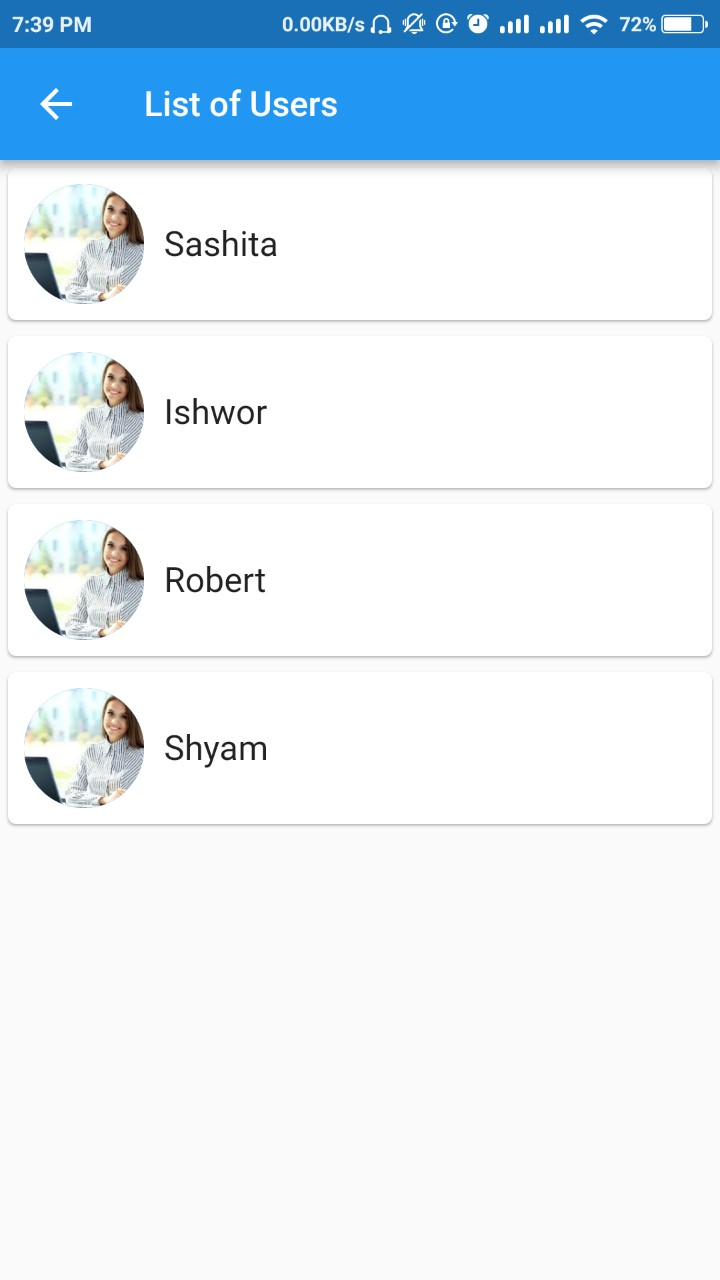
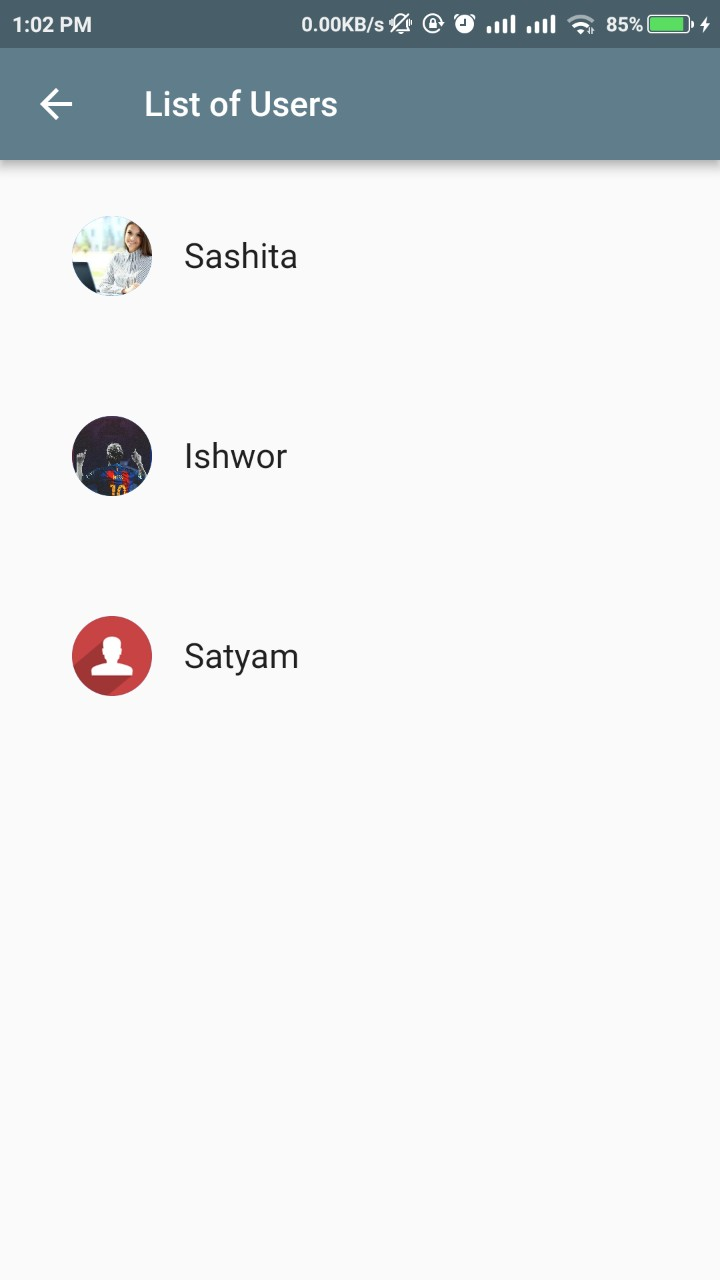
updated

Changed region(s): [[0.0, 0.0, 1.0, 0.6562], [0.2444, 0.5, 0.4278, 0.5312], [0.2444, 0.1875, 0.4278, 0.2188]]

diff --git a/lib/List.dart b/lib/List.dart
@@ -1,49 +1,68 @@
 import 'package:flutter/material.dart';
 
-class ListPage extends StatefulWidget{
-  @override
-  State<ListPage> createState() {
-    return new ListState();
-  }
-}
-
-class ListState extends State<ListPage>{
-  List<String> Names = [
-    'Sashita','Ishwor','Robert','Shyam',
-  ];
+class ListPage extends StatelessWidget {
   @override
   Widget build(BuildContext context) {
-    return new Scaffold(
+    return Scaffold(
       appBar: AppBar(
-        title: new Text("List of Users "),
+        title: Text("List of Users"),
+         backgroundColor:(Colors.blueGrey),
       ),
-      body: new Container(
-        child: new ListView.builder(
-          
-            itemBuilder: (_,int index)=>EachList(this.Names[index]),
-            itemCount: this.Names.length,
-        ),
-      ),
-    );
-  }
-}
-class EachList extends StatelessWidget{
-  final String name;
-  EachList(this.name);
-  @override
-  Widget build(BuildContext context) {
-    return new Card(
-      child: new Container(
-        padding: EdgeInsets.all(8.0),
-        child: new Row(
-          children: <Widget>[
-            new CircleAvatar(backgroundImage:AssetImage("assets/avatar.png"),radius:30,),
-            new Padding(padding: EdgeInsets.only(right: 10.0)),
-            new Text(name,style: TextStyle(fontSize: 20.0),)
-          ],
-        ),
-      ),
-    );
-  }
+      body: Container(
 
+          child: _list1(context),
+
+        // child: ListView.builder(
+        //   itemBuilder: (_,int index)=>Eachlist(),
+        //   itemCount: 5,
+        // ),
+        
+
+      )
+    );
+  }
 }
+// class Eachlist extends StatelessWidget {
+//   @override
+//   Widget build(BuildContext context) {
+//     return Card(
+//       child: Container(
+//         padding: EdgeInsets.all(10),
+//         child: Row(
+//           children: <Widget>[
+//             CircleAvatar( backgroundImage: AssetImage("assets/ishwor.jpg"),radius: ,),
+//             Padding(padding: EdgeInsets.only(right: 10.0),),
+//             Text("Ishwor",style: TextStyle(fontSize: 20.0),)
+
+//           ],
+//         ),
+//       )
+
+      
+//     );
+//   }
+// }
+
+  
+  Widget _list1(BuildContext context) {
+    return Container(
+      child: ListView(
+        padding: EdgeInsets.all(20),
+        itemExtent: 100,
+        children: <Widget>[
+          ListTile(
+            leading: CircleAvatar(backgroundImage: AssetImage("assets/avatar.png"),),
+            title: Text("Sashita",style: TextStyle(fontSize: 20),), 
+          ),
+           ListTile(
+            leading: CircleAvatar(backgroundImage: AssetImage("assets/img1.jpg"),),
+            title: Text("Ishwor",style: TextStyle(fontSize: 20),),
+          ),
+           ListTile(
+            leading: CircleAvatar(backgroundImage: AssetImage("assets/img2.png"),),
+            title: Text("Satyam",style: TextStyle(fontSize: 20),),
+          ),
+        ],
+      ),
+    );
+  }
